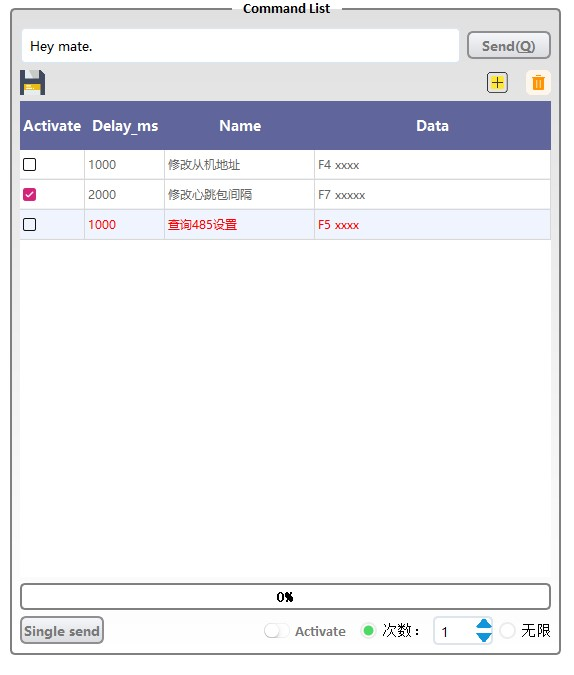
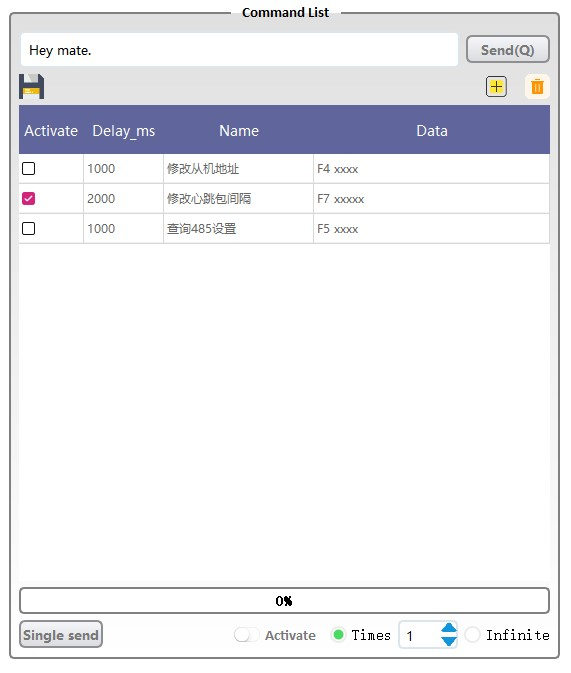
Improve README.md

Changed region(s): [[0.0, 0.0, 0.9825, 0.9985]]

diff --git a/UI/JT_EMQ_Test_Assistant_UI_Simple.py b/UI/JT_EMQ_Test_Assistant_UI_Simple.py
@@ -1077,8 +1077,8 @@ class Ui_JT_EMQ_Test_Assistant(object):
         item.setText(_translate("JT_EMQ_Test_Assistant", "Data"))
         self.Command_Single_Send_Button.setText(_translate("JT_EMQ_Test_Assistant", "Single send"))
         self.Command_Activate_Button.setText(_translate("JT_EMQ_Test_Assistant", "Activate"))
-        self.radioButton_loop_times.setText(_translate("JT_EMQ_Test_Assistant", "次数："))
-        self.radioButton_infinite.setText(_translate("JT_EMQ_Test_Assistant", "无限"))
+        self.radioButton_loop_times.setText(_translate("JT_EMQ_Test_Assistant", "Times"))
+        self.radioButton_infinite.setText(_translate("JT_EMQ_Test_Assistant", "Infinite"))
         self.Command_Save_Button.setStatusTip(_translate("JT_EMQ_Test_Assistant", "Save command list , Short cut : Ctrl + S"))
         self.Command_Save_Button.setShortcut(_translate("JT_EMQ_Test_Assistant", "Ctrl+S"))
         self.Command_Add_Button.setStatusTip(_translate("JT_EMQ_Test_Assistant", "Add a command  , Short cut : Ctrl + A"))

diff --git a/README.md b/README.md
@@ -1,6 +1,6 @@
 # MQTT_Assistant
 
-This is a MQTT Assistant for testing.
+This is a MQTT Assistant for sending or receiving message from EMQ.
 
 # Code Version
 
@@ -49,7 +49,7 @@ Use **JT_EMQ_Test_Assistant_Simple.py** to run the programme.
     src="./Doc/top.jpg">
 </center>
 
-When you click the `Connect to EMQ` button the setting of `EMQ Setting` information will be saved automatically.
+When you click the `Connect to EMQ` button the setting of `EMQ Setting` will be saved automatically.
 
 ### Left side:
 
@@ -59,9 +59,9 @@ When you click the `Connect to EMQ` button the setting of `EMQ Setting` informat
     src="./Doc/Letf_side.jpg">
 </center>
 
-When you want to **focus** on one line in `Text Edit` on the left of the window, just click it , it will stop sliding down , then click the button name `Final line` , it will keep show the latest data.
+When you want to **focus** on one line in `Text Edit` on the left of the window, just click it , it will stop sliding down , then click the button name `Final line` , it will keep showing the latest data.
 
-The software save log by default , if you do not want to save it , just unclick the `Save log` check box In the lower left corner of the window.
+The software save log to a txt file name `collect.txt` under floder name `Data` by default , if you **DO NOT** want to save it , just unclick the `Save log` check box in the lower left corner of the window.
 
 ### Right side:
 
@@ -72,18 +72,18 @@ The software save log by default , if you do not want to save it , just unclick 
 </center>
 
 
-You can send custom message by click the `Send` button (shortcut: `Alt + Q`).
+You can send custom message (for example `Hey mate.`) by click the `Send` button (shortcut: `Alt + Q`) **after** you connect EMQ.
 
 You can `add` command in the table by click the nice <img src="/images/add.png" width="3%" height="3%"> button(shortcut: `ctrl + A`) or `delete` by the <img src="/images/Del.png" width="3%" height="3%"> button (shortcut: `ctrl + D`) .
 
 **REMEMBER** : After you edited the table you need to click the button <img src="/images/Save.png" width="3%" height="3%"> to save (shortcut: `ctrl + S`)!
 
-You also can just **Right Click** in the table will show `Send` and `Delete` .
+You also can just **Right Click** in the table will show `Delete` .
 
 The **Right click menu** `Send` and button `Single send` do the same job -> send the command you just selected in the table .
 
-If you want to send the command cyclically , you can just click the **checkBox** `Activate` the software will send command which is activated in column of the table name `Activate` then delay time is according to command row `Delay_ms` .
+If you want to send the command cyclically , you can just click the **checkBox** `Activate` , the software will send command which is activated in column of the table name `Activate` then delay for a while according to command row `Delay_ms` .
 
-Number of times the instruction is sent cyclically according to the **spinBox** beside the checkBox name `Activate`. You also can choose infinite loop .
+Number of times the instruction is sent cyclically according to the **spinBox** name `Times` beside the checkBox name `Activate`. You also can choose infinite loop .
 
 **Progress bar** shows the percentage of completion sent . For example , you activate 10 command in the table , when the software sent 7 commands , the progress bar show `70%`. 
